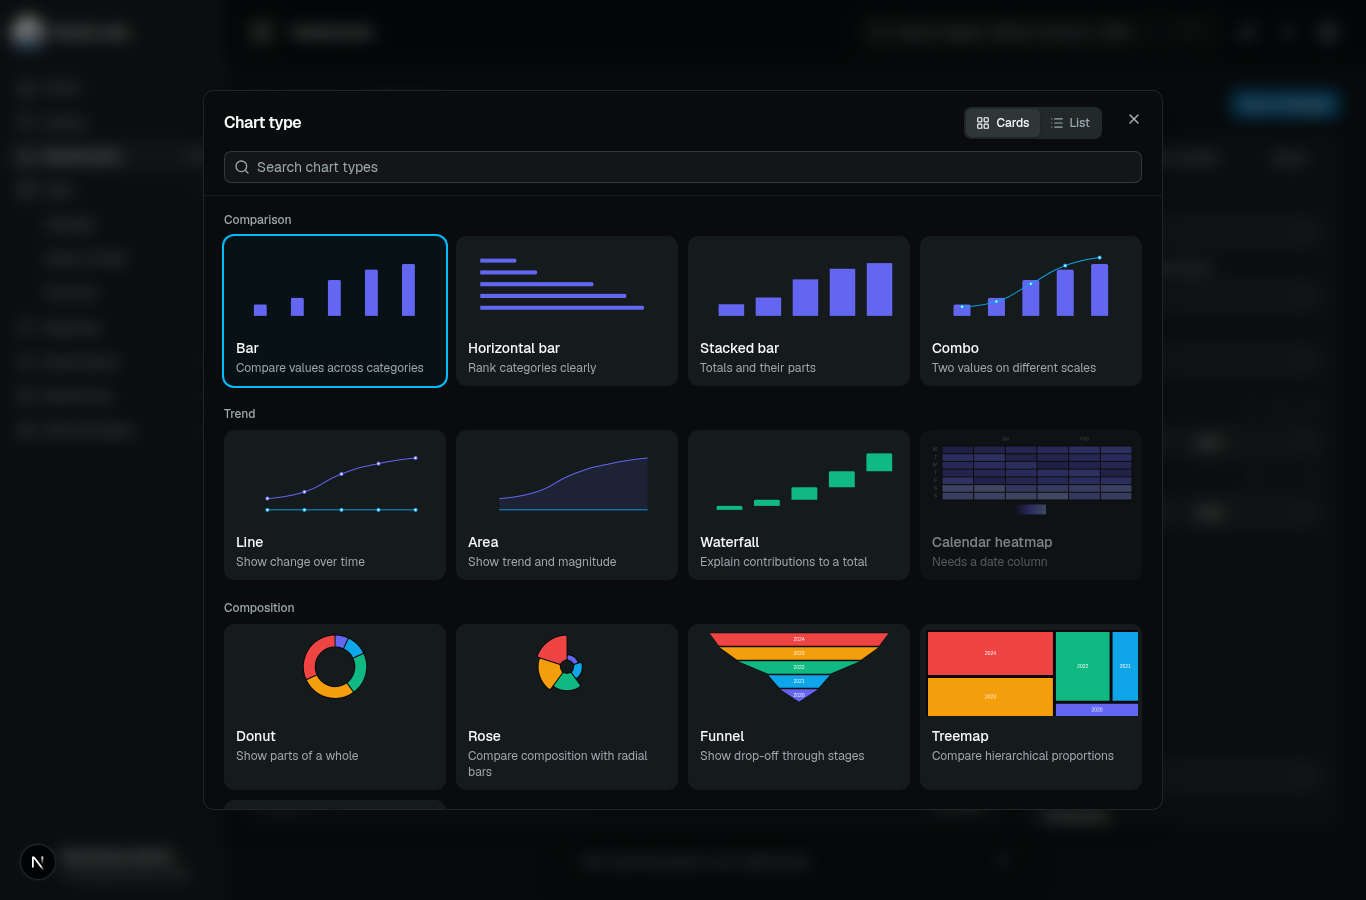
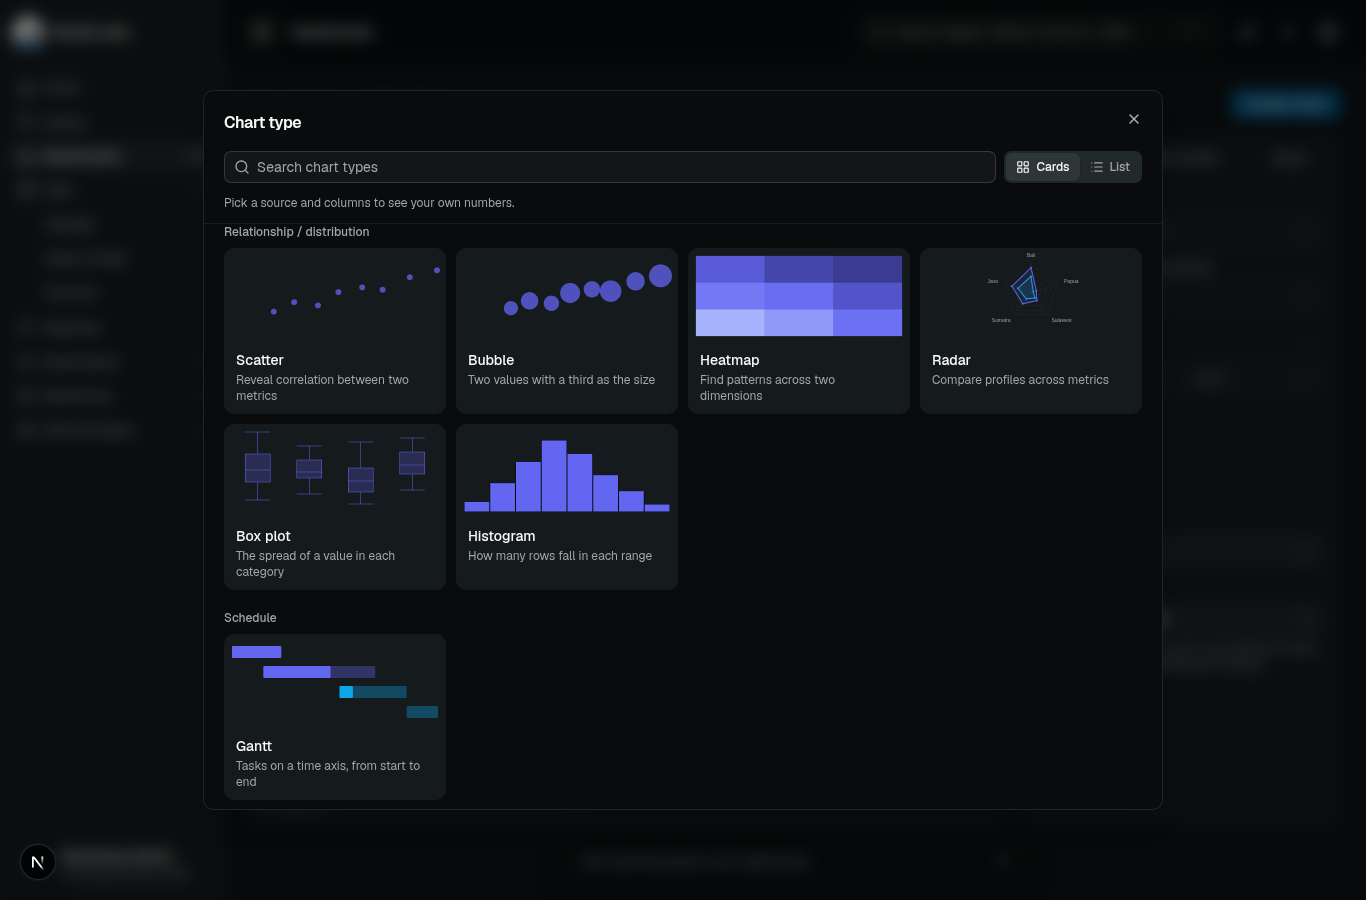
BI-58 fix(dashboards): gallery pictures centred, and the search and view switch on one row
Owner QA 2026-11-14, gallery pictures centred: with the axes hidden, the
pictures kept margins sized for axis labels and none for big symbols, so a
scatter sat a third in from the left, a bubble chart clipped its last
bubble, and a heatmap's grid and colour bar sat off centre. Inside a gallery
picture TileBody now passes every chart through thumbnailOption
(lib/thumbnail-option.ts; a ThumbnailContext the gallery provides, so
nothing changes elsewhere): equal margins on every side of at least the
largest symbol's radius plus 4 px, no axes, legend or colour bar, a calendar
boxed the same way, a radar centred without its axis names. Checked in every
group of the gallery.

Owner QA 2026-11-14, gallery header: the title row holds only "Chart type"
and the close button; the search and the Cards / List switch share the next
row, the search taking the room and the switch its height (32 px). On a
phone the switch stays on that row as two icons (names as tooltips and
accessible names).

Tests: every cartesian picture the gallery draws has equal left/right and
top/bottom margins and no symbol wider than its margin; calendars equal;
thumbnailOption unit tests (margins, a grid added where none, bubble room,
calendar and colour bar, radar); the search and the switch share one row,
both 32 px, apart from the title row. Measured at 1366: search and switch
both top at 151 px, 32 px high.

Checks: 18 scoped files 200 pass, 0 fail; typecheck 0 errors; lint 0 errors,
[…]

diff --git a/src/features/dashboards/kind-picker.tsx b/src/features/dashboards/kind-picker.tsx
@@ -24,7 +24,7 @@ import { GALLERY_ROW_CAP, MAIN_KINDS, drawsFrom, kindNeed, previewShape, type So
 import { cn } from "@/lib/utils";
 import { KIND_DESCRIPTIONS, KIND_GROUPS, KIND_KEYWORDS, KIND_LABELS, kindBlurb, kindIcon, kindShort } from "./chart-kinds";
 import { kindSample } from "@/lib/kind-sample";
-import { TileBody } from "./tile-body";
+import { ThumbnailContext, TileBody } from "./tile-body";
 
 const EASE = "transition-[background-color,color,box-shadow,opacity,transform] duration-200 ease-[cubic-bezier(0.2,0,0,1)]";
 const FOCUS = "outline-none focus-visible:ring-3 focus-visible:ring-ring/50";
@@ -136,35 +136,41 @@ function KindGallery({ kind, onPick, facts, preview, dark }: {
   const rows = React.useMemo(() => preview?.rows.slice(0, GALLERY_ROW_CAP) ?? [], [preview]);
   return (
     <>
-      {/* The title, the view switch (clear of the dialog's close button), then the search; they stay put while the types scroll. */}
+      {/* Owner QA 2026-11-14, gallery header: the title row holds only "Chart type" and the close
+          button; the search and the Cards / List switch share the next row, the search taking the
+          room and the switch the search's own height (32 px). On a phone the switch stays on that
+          row as two icons (their names are their accessible names and tooltips). The header stays
+          put while the types scroll. */}
       <div className="grid shrink-0 gap-3 border-b border-border/60 px-5 pt-4 pb-3">
-        <div className="flex items-center justify-between gap-3 pr-10">
+        <div className="flex min-h-8 items-center pr-10">
           <DialogTitle className="text-base font-semibold">Chart type</DialogTitle>
-          <div role="radiogroup" aria-label="View" className="inline-flex rounded-lg bg-muted p-0.5">
+        </div>
+        <div className="flex items-center gap-2" data-slot="gallery-search-row">
+          <div className="relative min-w-0 flex-1">
+            <Search aria-hidden className="pointer-events-none absolute top-1/2 left-2.5 size-4 -translate-y-1/2 text-muted-foreground" />
+            <Input
+              value={query} onChange={(e) => setQuery(e.target.value)}
+              onKeyDown={(e) => {
+                // Enter picks the first match the source can make, so "sank⏎" is enough.
+                const first = groups.flatMap((g) => g.items).find((i) => !kindNeed(i.value, facts));
+                if (e.key === "Enter" && first) { e.preventDefault(); onPick(first.value); }
+              }}
+              placeholder="Search chart types" aria-label="Search chart types" className="h-8 bg-background pl-8"
+            />
+          </div>
+          <div role="radiogroup" aria-label="View" className="inline-flex h-8 shrink-0 items-center rounded-lg bg-muted p-0.5">
             {([["cards", "Cards", LayoutGrid], ["list", "List", List]] as const).map(([value, label, Icon]) => (
               <button
-                key={value} type="button" role="radio" aria-checked={view === value} onClick={() => pickView(value)}
+                key={value} type="button" role="radio" aria-checked={view === value} aria-label={label} title={label} onClick={() => pickView(value)}
                 className={cn(
-                  "inline-flex h-7 items-center gap-1.5 rounded-md px-2.5 text-xs font-medium", EASE, FOCUS,
+                  "inline-flex h-7 items-center gap-1.5 rounded-md px-2 text-xs font-medium sm:px-2.5", EASE, FOCUS,
                   view === value ? "bg-background text-foreground shadow-sm dark:bg-input/40" : "text-muted-foreground hover:text-foreground",
                 )}
               >
-                <Icon aria-hidden className="size-3.5" /> {label}
+                <Icon aria-hidden className="size-3.5" /> <span className="hidden sm:inline">{label}</span>
               </button>
             ))}
           </div>
-        </div>
-        <div className="relative">
-          <Search aria-hidden className="pointer-events-none absolute top-1/2 left-2.5 size-4 -translate-y-1/2 text-muted-foreground" />
-          <Input
-            value={query} onChange={(e) => setQuery(e.target.value)}
-            onKeyDown={(e) => {
-              // Enter picks the first match the source can make, so "sank⏎" is enough.
-              const first = groups.flatMap((g) => g.items).find((i) => !kindNeed(i.value, facts));
-              if (e.key === "Enter" && first) { e.preventDefault(); onPick(first.value); }
-            }}
-            placeholder="Search chart types" aria-label="Search chart types" className="h-8 bg-background pl-8"
-          />
         </div>
         {/* BI-58 review round 3, SHOULD-FIX 8 (owner): before any data, every picture is the sample. */}
         {preview ? null : <DialogDescription className="text-xs">Pick a source and columns to see your own numbers.</DialogDescription>}
@@ -232,7 +238,9 @@ function KindPicture({ kind, picture, hasData, dark, className, zoom = 2 }: {
         // Drawn at twice the size and scaled down: the chart's own margins are fixed in pixels, so at
         // card size they left the shape a sliver; scaled, it keeps the proportions of the real chart.
         <span className={cn("absolute top-0 left-0 block origin-top-left p-2", zoom === 4 ? "h-[400%] w-[400%] scale-25" : "h-[200%] w-[200%] scale-50")}>
-          <TileBody spec={drawn.spec} cell={drawn.cell} dark={dark} loading={false} hideLegend />
+          <ThumbnailContext.Provider value>
+            <TileBody spec={drawn.spec} cell={drawn.cell} dark={dark} loading={false} hideLegend />
+          </ThumbnailContext.Provider>
         </span>
       ) : sample.kind === "illustration" ? (
         <KindDrawing picture={sample.picture} />

diff --git a/src/features/dashboards/tile-body.tsx b/src/features/dashboards/tile-body.tsx
@@ -8,6 +8,7 @@ import { ErrorWithReference } from "@/components/error-reference";
 import type { TileFailure } from "@/services/contracts/dashboards";
 import { MiniMarkdown } from "@/features/copilot/mini-markdown";
 import { EChart } from "./echart";
+import { thumbnailOption } from "@/lib/thumbnail-option";
 import { buildOption, clusterNote, fmtInt, forecastNote, withReferenceLines } from "./chart-option";
 import { NOT_AVAILABLE_WITH_YOUR_ACCESS, buildCombinedOption, cutLayers, failedLayers, unavailableLayers } from "./combined-option";
 import { takesLayers, type LayerDef } from "@/lib/chart-layers";
@@ -39,6 +40,19 @@ import { limitSentence } from "@/lib/query-limits";
 import { dataFromLabel } from "@/lib/result-cache";
 
 type Cell = Rows | TileFailure;
+
+/**
+ * Owner QA 2026-11-14, gallery pictures centred: inside a gallery picture every chart this body draws
+ * gets `thumbnailOption` (equal margins, no axes, legend or colour bar), so it sits centred in its
+ * card. The chart-type gallery provides it; everywhere else it is off and nothing changes.
+ */
+export const ThumbnailContext = React.createContext(false);
+
+/** The chart, as the gallery's picture when inside one. */
+function ChartView(props: React.ComponentProps<typeof EChart>) {
+  const thumbnail = React.useContext(ThumbnailContext);
+  return <EChart {...props} option={thumbnail ? thumbnailOption(props.option) : props.option} />;
+}
 function hasRows(c: Cell | undefined): c is Rows {
   return !!c && "rows" in c;
 }
@@ -228,7 +242,7 @@ function TileBodyOf({
     // BI-17 part B: what the chart says under itself about a forecast or about clusters.
     const forecastSentence = forecastNote(cell.referenceLines, lineCtx, spec.kind === "hbar") ?? clusterNote(spec, rows, style);
     const chart = (
-      <EChart option={hideLegend ? { ...option, legend: { show: false } } : option} height="100%"
+      <ChartView option={hideLegend ? { ...option, legend: { show: false } } : option} height="100%"
         onDataClick={onDataClick ? (hit, pos) => onDataClick(hit, pos, { rows: rawRows, labelledRows: rows, grain: grain ?? undefined, otherLabels, bin: bins[spec.x] }) : undefined} />
     );
     if (!styled.hiddenNotes && !forecastSentence) return chart;
@@ -288,7 +302,7 @@ function TypeBBody({
     // A result as long as the server's cap may have been cut (a narrow width over a wide column); say so, as a cut-off chart does.
     return (
       <div className="flex h-full min-h-0 flex-col">
-        <div className="min-h-0 flex-1"><EChart option={drawn.option} height="100%" /></div>
+        <div className="min-h-0 flex-1"><ChartView option={drawn.option} height="100%" /></div>
         {cell.rows.length >= HISTOGRAM_ROW_CAP ? (
           <p className="px-1 pt-1 text-[11px] text-muted-foreground">Only the first {HISTOGRAM_ROW_CAP} ranges are shown; choose a wider width.</p>
         ) : null}
@@ -317,7 +331,7 @@ function TypeBBody({
   }
   return (
     <div className="flex h-full min-h-0 flex-col">
-      <div className="min-h-0 flex-1"><EChart option={drawn.option} height="100%" /></div>
+      <div className="min-h-0 flex-1"><ChartView option={drawn.option} height="100%" /></div>
       {drawn.more > 0 ? (
         <p className="px-1 pt-1 text-[11px] text-muted-foreground">{drawn.more} more not shown (the first {MAX_BULLETS} are drawn)</p>
       ) : null}
@@ -350,7 +364,7 @@ function GanttBody({
   return (
     <div className="flex h-full min-h-0 flex-col">
       <div className="min-h-0 flex-1">
-        <EChart option={drawn.option} height="100%" onDataClick={onDataClick ? (hit, pos) => onDataClick(hit, pos, { rows: cell.rows }) : undefined} />
+        <ChartView option={drawn.option} height="100%" onDataClick={onDataClick ? (hit, pos) => onDataClick(hit, pos, { rows: cell.rows }) : undefined} />
       </div>
       {drawn.notes.map((note) => <p key={note} className="px-1 pt-1 text-[11px] text-muted-foreground">{note}.</p>)}
     </div>
@@ -431,7 +445,7 @@ function CombinedBody({
   return (
     <div className="flex h-full min-h-0 flex-col">
       <div className="min-h-0 flex-1">
-        <EChart option={hideLegend ? { ...option, legend: { show: false } } : option} height="100%" onDataClick={click} />
+        <ChartView option={hideLegend ? { ...option, legend: { show: false } } : option} height="100%" onDataClick={click} />
       </div>
       {styled.hiddenNotes ? (
         <p className="px-1 pt-1 text-[11px] text-muted-foreground">

diff --git a/src/lib/thumbnail-option.ts b/src/lib/thumbnail-option.ts
@@ -1,0 +1,55 @@
+/**
+ * Owner QA 2026-11-14, gallery pictures centred: the chart-type gallery draws
+ * each type small, without axes. The chart's own option keeps margins sized
+ * for axis labels (a wide left margin for the Y labels, `containLabel`) and
+ * none for big symbols, so with the axes hidden a scatter sat a third in from
+ * the left, a bubble chart clipped its last bubble, and a heatmap's grid and
+ * colour bar sat off centre. This turns a finished ECharts option into the
+ * picture's: the same marks, centred, with equal margins on every side that
+ * are at least the largest symbol's radius, and no axes, legend, colour bar or
+ * calendar labels.
+ */
+
+type Opt = Record<string, unknown>
+
+const list = (v: unknown): Opt[] => (Array.isArray(v) ? (v as Opt[]) : v && typeof v === "object" ? [v as Opt] : [])
+/** Keeps an option's shape: one object stays one object, a list stays a list. */
+const mapSame = (v: unknown, f: (o: Opt) => Opt): unknown => (Array.isArray(v) ? (v as Opt[]).map(f) : v && typeof v === "object" ? f(v as Opt) : v)
+
+/** The largest symbol radius any series draws, in px (a size given as a function is asked for each point). */
+export function maxSymbolRadius(option: Opt): number {
+  let max = 0
+  for (const s of list(option.series)) {
+    const size = s.symbolSize
+    if (typeof size === "number") max = Math.max(max, size / 2)
+    else if (typeof size === "function") {
+      for (const d of (s.data as unknown[] | undefined) ?? []) {
+        const value = d && typeof d === "object" && !Array.isArray(d) && "value" in d ? (d as { value: unknown }).value : d
+        const r = (size as (v: unknown) => unknown)(value)
+        if (typeof r === "number" && Number.isFinite(r)) max = Math.max(max, r / 2)
+      }
+    } else if (s.type === "line" || s.type === "scatter") max = Math.max(max, 3)
+  }
+  return max
+}
+
+/** The picture's option: equal margins of at least the largest symbol's radius, and nothing around the marks. */
+export function thumbnailOption<T>(option: T): T {
+  const o = option as unknown as Opt
+  const pad = Math.ceil(Math.max(8, maxSymbolRadius(o) + 4))
+  const box = { left: pad, right: pad, top: pad, bottom: pad }
+  const hideAxis = (a: Opt): Opt => ({ ...a, show: false, name: "" })
+  const out: Opt = { ...o, legend: { show: false } }
+  const cartesian = o.xAxis !== undefined || o.yAxis !== undefined
+  if (o.grid !== undefined || cartesian) out.grid = mapSame(o.grid ?? {}, (g) => ({ ...g, ...box, containLabel: false }))
+  if (o.xAxis !== undefined) out.xAxis = mapSame(o.xAxis, hideAxis)
+  if (o.yAxis !== undefined) out.yAxis = mapSame(o.yAxis, hideAxis)
+  if (o.visualMap !== undefined) out.visualMap = mapSame(o.visualMap, (v) => ({ ...v, show: false }))
+  if (o.dataZoom !== undefined) out.dataZoom = mapSame(o.dataZoom, (z) => ({ ...z, show: false }))
+  // A radar's axis names circle it like axis labels; the picture keeps the shape, centred.
+  if (o.radar !== undefined) out.radar = mapSame(o.radar, (r) => ({ ...r, center: ["50%", "50%"], radius: "78%", axisName: { show: false } }))
+  if (o.calendar !== undefined) {
+    out.calendar = mapSame(o.calendar, (c) => ({ ...c, ...box, dayLabel: { show: false }, monthLabel: { show: false }, yearLabel: { show: false } }))
+  }
+  return out as unknown as T
+}

diff --git a/src/lib/thumbnail-option.test.ts b/src/lib/thumbnail-option.test.ts
@@ -1,0 +1,58 @@
+import { describe, expect, it } from "bun:test"
+
+import { maxSymbolRadius, thumbnailOption } from "./thumbnail-option"
+
+/** What these tests read of a picture's option. */
+type Picture = {
+  grid: { left: number; right: number; top: number; bottom: number; containLabel?: boolean }
+  xAxis: { show: boolean; name: string }
+  yAxis: { show: boolean }[]
+  legend: unknown
+  calendar: Record<string, unknown>
+  visualMap: Record<string, unknown>
+  radar: Record<string, unknown>
+}
+
+// Owner QA 2026-11-14, gallery pictures centred.
+describe("thumbnailOption", () => {
+  it("gives a cartesian chart equal margins on every side, with its axes and legend off", () => {
+    const o = thumbnailOption({
+      grid: { left: 64, right: 16, top: 40, bottom: 28, containLabel: true },
+      xAxis: { type: "category", name: "place" }, yAxis: [{ type: "value", name: "visits" }, { type: "value" }],
+      legend: { top: 0 }, series: [{ type: "bar", data: [1, 2] }],
+    }) as unknown as Picture
+    expect(o.grid).toMatchObject({ left: 8, right: 8, top: 8, bottom: 8, containLabel: false })
+    expect(o.xAxis).toMatchObject({ show: false, name: "" })
+    expect(o.yAxis.map((a) => a.show)).toEqual([false, false])
+    expect(o.legend).toEqual({ show: false })
+  })
+
+  it("adds a grid with equal margins to a cartesian chart that had none", () => {
+    const o = thumbnailOption({ xAxis: {}, yAxis: {}, series: [] }) as unknown as Picture
+    expect(o.grid).toMatchObject({ left: 8, right: 8, top: 8, bottom: 8, containLabel: false })
+  })
+
+  it("keeps room for the largest bubble, so none is clipped", () => {
+    const size = (v: number[]) => 8 + 38 * Math.sqrt((v[2] ?? 0) / 28)
+    const option = { xAxis: {}, yAxis: {}, series: [{ type: "scatter", symbolSize: size, data: [{ value: [1, 2, 8] }, { value: [3, 4, 28] }] }] }
+    expect(maxSymbolRadius(option)).toBe(23)
+    const o = thumbnailOption(option) as unknown as Picture
+    expect(o.grid.left).toBeGreaterThanOrEqual(23)
+    expect(o.grid.left).toBe(o.grid.right)
+  })
+
+  it("centres a calendar and hides a colour bar, keeping their colours", () => {
+    const o = thumbnailOption({
+      calendar: { range: ["2026-01-05", "2026-02-15"], left: 36, right: 12, top: 24, bottom: 44 },
+      visualMap: { min: 0, max: 9, left: "center", bottom: 0, inRange: { color: ["#eee", "#00f"] } },
+      series: [{ type: "heatmap", coordinateSystem: "calendar", data: [] }],
+    }) as unknown as Picture
+    expect(o.calendar).toMatchObject({ left: 8, right: 8, top: 8, bottom: 8, dayLabel: { show: false }, monthLabel: { show: false } })
+    expect(o.visualMap).toMatchObject({ show: false, inRange: { color: ["#eee", "#00f"] } })
+  })
+
+  it("hides a radar's axis names and centres it", () => {
+    const o = thumbnailOption({ radar: { indicator: [{ name: "Bali" }], center: ["50%", "55%"] }, series: [{ type: "radar", data: [] }] }) as unknown as Picture
+    expect(o.radar).toMatchObject({ center: ["50%", "50%"], axisName: { show: false } })
+  })
+})

diff --git a/src/features/dashboards/chart-builder-layout.test.tsx b/src/features/dashboards/chart-builder-layout.test.tsx
@@ -511,3 +511,50 @@ describe("the chart-type dialog (BI-58 review round 4)", () => {
     expect(screen.getByRole("button", { name: /More chart types, now Funnel/ })).toBeTruthy()
   })
 })
+
+// Owner QA 2026-11-14, gallery pictures centred, and the gallery header.
+describe("the gallery's pictures and header (owner QA 2026-11-14)", () => {
+  type Drawn = { grid?: { left?: number; right?: number; top?: number; bottom?: number; containLabel?: boolean } | unknown[]; calendar?: { left?: number; right?: number }; series?: { type?: string; symbolSize?: unknown; data?: unknown[] }[] }
+
+  it("draws every cartesian picture with equal margins, wide enough for its largest symbol", async () => {
+    renderBuilder()
+    await screen.findByRole("complementary", { name: "Data" })
+    drawn = []
+    fireEvent.click(screen.getByRole("button", { name: "More chart types" }))
+    await screen.findByRole("dialog", { name: "Chart type" })
+    await waitFor(() => expect(drawn.length).toBeGreaterThan(15))
+    let cartesian = 0
+    for (const option of drawn as Drawn[]) {
+      const grid = option.grid && !Array.isArray(option.grid) ? option.grid : undefined
+      if (grid) {
+        cartesian += 1
+        expect(grid.left === grid.right && grid.top === grid.bottom && grid.containLabel === false, JSON.stringify(grid)).toBe(true)
+        // No symbol is wider than the margin it sits in.
+        for (const s of option.series ?? []) {
+          if (typeof s.symbolSize !== "function") continue
+          for (const d of s.data ?? []) {
+            const value = d && typeof d === "object" && "value" in (d as object) ? (d as { value: unknown }).value : d
+            const r = (s.symbolSize as (v: unknown) => number)(value) / 2
+            expect(r <= (grid.left ?? 0), `radius ${r} within ${grid.left}`).toBe(true)
+          }
+        }
+      }
+      if (option.calendar) expect(option.calendar.left === option.calendar.right).toBe(true)
+    }
+    expect(cartesian).toBeGreaterThan(10)
+  })
+
+  it("keeps the search and the Cards / List switch on one row, under a title row of the title alone", async () => {
+    renderBuilder()
+    fireEvent.click(screen.getByRole("button", { name: "More chart types" }))
+    const dialog = await screen.findByRole("dialog", { name: "Chart type" })
+    const search = within(dialog).getByLabelText("Search chart types")
+    const views = within(dialog).getByRole("radiogroup", { name: "View" })
+    const row = dialog.querySelector("[data-slot=gallery-search-row]") as HTMLElement
+    expect(row.contains(search) && row.contains(views)).toBe(true)
+    expect(views.className).toContain("h-8")
+    expect(search.className).toContain("h-8")
+    const title = within(dialog).getByText("Chart type")
+    expect(title.parentElement?.contains(views)).toBe(false)
+  })
+})

diff --git a/docs/superpowers/plans/2026-11-14-bi-58-chart-builder-layout.md b/docs/superpowers/plans/2026-11-14-bi-58-chart-builder-layout.md
@@ -503,3 +503,58 @@ before).
 `review-gallery-dialog-list-1366x900-dark.png`. Both are the Edit chart page on the 28620 preview;
 the dialog measures 960 × 720 px. They were taken with one headless Chrome, stopped by PID
 afterwards. No server was started.
+
+### Handoff, owner QA 2026-11-14 items after round 4 (Opus developer agent)
+
+**Commits:**
+- `50295df6` composer reserve: the room under a page follows whether the composer shows.
+- `1c113857` the type toolbar stays one row in a narrow canvas.
+- This entry's commit: the gallery pictures centred, and the gallery header.
+
+**Composer reserve:**
+- While the composer is on screen, the dock sets `--dock-reserve`: the composer's measured height
+  plus its 16 px offset and a 14 px gap. When the dock hides, the variable is removed.
+- `--content-bottom` is `var(--dock-reserve, 1.5rem)`; `main` and the builder follow it with a
+  200 ms transition (off under reduced motion).
+- Measured at 1366x900:
+  - composer shown: reserve 76 px, zones end at 824;
+  - Copilot panel open, app sidebar folded: no reserve, zones end at 876, no scroll
+    (`review-copilot-open-1366x900-dark.png`);
+  - Copilot panel open with the app sidebar also open: the builder has about 674 px and uses its
+    one-column layout.
+
+**Toolbar:** in a canvas under 36rem (the Copilot panel beside it), KPI and Table move into "More"
+(two more types under 26rem). The type in use always stays, so the 44 px row never wraps.
+
+**Gallery pictures centred:** inside a gallery picture, `TileBody` passes every chart through
+`thumbnailOption` (`src/lib/thumbnail-option.ts`). Outside the gallery nothing changes. The picture
+gets:
+- equal margins on all sides, at least the largest symbol's radius plus 4 px, so no bubble is cut;
+- no axes, legend or colour bar;
+- calendars boxed the same way, and a radar centred without its axis names.
+
+Checked in every group: scatter, bubble, heatmap, radar, box plot, histogram, Gantt, donut, rose,
+funnel, treemap, sunburst, gauge and KPI are centred. Progress, the tables and the note keep their
+top-left reading layout.
+
+**Gallery header:**
+- The title row holds only "Chart type" and ✕.
+- Search and the Cards / List switch share the next row; both are 32 px high and both top at 151 px
+  at 1366, measured.
+- On a phone the switch stays on that row as two icons (their names are tooltips and accessible
+  names). I picked this as the cleaner option.
+
+**Checks**, each run alone under the 3G cap after `free -m`:
+- `bun test` on 18 files (builder, gallery, chart tiles that draw through `TileBody`, dock, libs):
+  **200 pass, 0 fail, 1,564 expect() calls**;
+- `bun run typecheck`: **0 errors**;
+- `bun run lint`: **0 errors, 11 warnings** (the existing 11);
+- the full `bun run test`: **not verified (CI)**.
+
+**Screenshots:**
+- `review-gallery-dialog-cards-1366x900-dark.png`, scrolled to "Relationship / distribution". It was
+  taken a moment before the radar's axis names were turned off; the follow-up check shows the radar
+  without them.
+- `review-gallery-dialog-cards-390x844-dark.png`, the phone view.
+- Both come from this worktree on 28622, started briefly with one headless Chrome. Both were stopped
+  by PID straight after.
